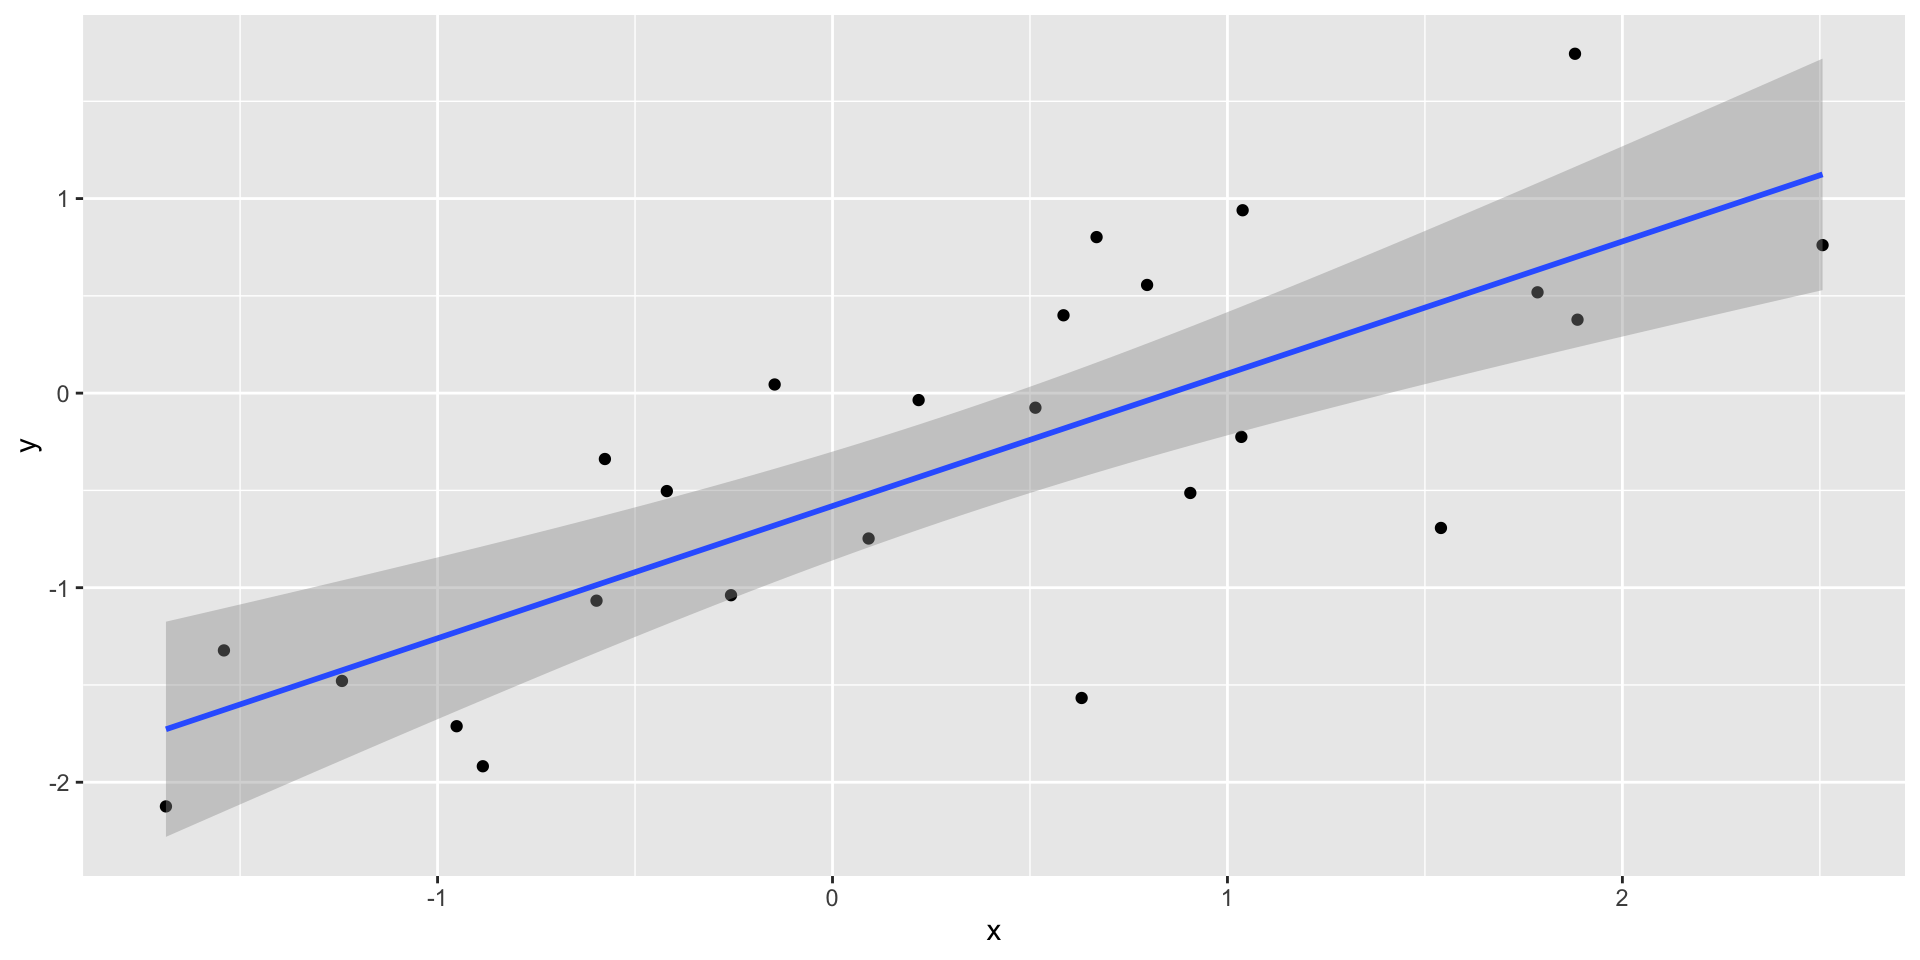
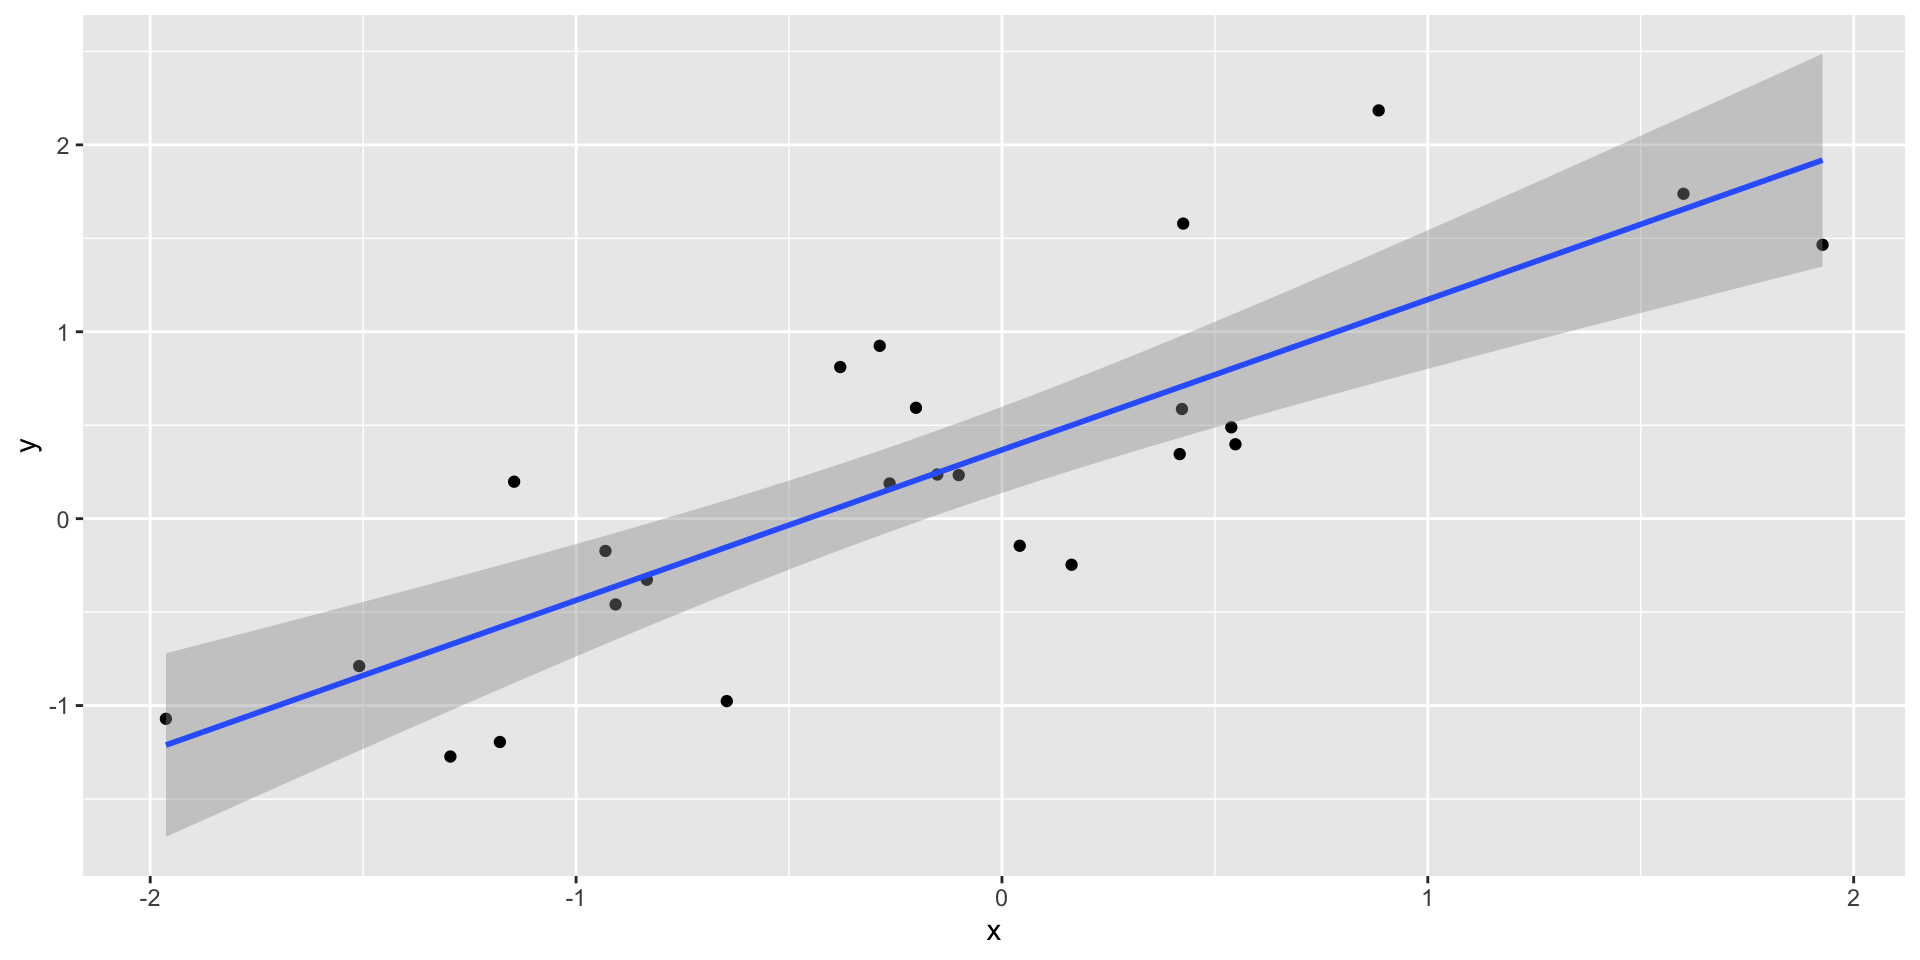
pset 10 and shiny lecture

diff --git a/docs/psets/pset-10-ml.html b/docs/psets/pset-10-ml.html
@@ -6,7 +6,7 @@
 
 <meta name="viewport" content="width=device-width, initial-scale=1.0, user-scalable=yes">
 
-<meta name="dcterms.date" content="2024-12-16">
+<meta name="dcterms.date" content="2025-04-20">
 
 <title>Problem set 10 – BIOSTAT 620: Introduction to Health Data Science</title>
 <style>
@@ -165,6 +165,12 @@ pre > code.sourceCode > span > a:first-child::before { text-decoration: underlin
  <span class="menu-text">Syllabus</span></a>
   </div>
 </li>
+        <li class="sidebar-item">
+  <div class="sidebar-item-container"> 
+  <a href="../final-project.html" class="sidebar-item-text sidebar-link">
+ <span class="menu-text">Final Project</span></a>
+  </div>
+</li>
     </ul>
     </div>
 </nav>
@@ -189,7 +195,7 @@ pre > code.sourceCode > span > a:first-child::before { text-decoration: underlin
     <div>
     <div class="quarto-title-meta-heading">Published</div>
     <div class="quarto-title-meta-contents">
-      <p class="date">December 16, 2024</p>
+      <p class="date">April 20, 2025</p>
     </div>
   </div>
   
@@ -201,11 +207,11 @@ pre > code.sourceCode > span > a:first-child::before { text-decoration: underlin
 </header>
 
 
-<p>The data for this problem set is provided by this link: <code>https://github.com/datasciencelabs/2024/raw/refs/heads/main/data/pset-10-mnist.rds</code></p>
+<p>The data for this problem set is provided by this link: <code>https://github.com/dmcable/BIOSTAT620/raw/refs/heads/main/data/pset-10-mnist.rds</code></p>
 <p>Read this object into R. For example, you can use:</p>
 <div class="cell">
 <div class="sourceCode cell-code" id="cb1"><pre class="sourceCode r code-with-copy"><code class="sourceCode r"><span id="cb1-1"><a href="#cb1-1" aria-hidden="true" tabindex="-1"></a>fn <span class="ot">&lt;-</span> <span class="fu">tempfile</span>()</span>
-<span id="cb1-2"><a href="#cb1-2" aria-hidden="true" tabindex="-1"></a><span class="fu">download.file</span>(<span class="st">"https://github.com/datasciencelabs/2024/raw/refs/heads/main/data/pset-10-mnist.rds"</span>, fn)</span>
+<span id="cb1-2"><a href="#cb1-2" aria-hidden="true" tabindex="-1"></a><span class="fu">download.file</span>(<span class="st">"https://github.com/dmcable/BIOSTAT620/raw/refs/heads/main/data/pset-10-mnist.rds"</span>, fn)</span>
 <span id="cb1-3"><a href="#cb1-3" aria-hidden="true" tabindex="-1"></a>dat <span class="ot">&lt;-</span> <span class="fu">readRDS</span>(fn)</span>
 <span id="cb1-4"><a href="#cb1-4" aria-hidden="true" tabindex="-1"></a><span class="fu">file.remove</span>(fn)</span></code><button title="Copy to Clipboard" class="code-copy-button"><i class="bi"></i></button></pre></div>
 </div>
@@ -220,8 +226,8 @@ pre > code.sourceCode > span > a:first-child::before { text-decoration: underlin
 <li><p>The file <code>digit_predictions.rds</code></p></li>
 <li><p>A quarto file that reproduces your analysis and provides brief explanations for your choices.</p></li>
 </ol>
-<p><strong>If your code reproduces the result</strong>, your grade will be your accuracy rounded up the closest integer. So,for example, if your accuracy is .993 your grade will be 100%.</p>
-<p>You will have two opportunities to submit your predictions and see your accuracy before your submitting your final predictions.</p>
+<p><strong>If your code reproduces the result</strong>, your grade will be your accuracy rounded up the closest integer. So, for example, if your accuracy is .993 your grade will be 100%. Depending on the distribution of accuracy values, the teaching staff may issue an update about the grading system used.</p>
+<p>You will have one opportunities to redo your predictions after you see your accuracy from your first submission.</p>
 
 
 

diff --git a/docs/index.html b/docs/index.html
@@ -299,10 +299,22 @@ ul.task-list li input[type="checkbox"] {
 <td style="text-align: left;"><a href="https://rafalab.dfci.harvard.edu/dsbook-part-2/ml/notation-and-terminology.html">Notation and terminology</a>, <a href="https://rafalab.dfci.harvard.edu/dsbook-part-2/ml/evaluation-metrics.html">Evaluation Metrics</a>, <a href="https://rafalab.dfci.harvard.edu/dsbook-part-2/ml/conditionals.html">conditional probabilities</a>, <a href="https://rafalab.dfci.harvard.edu/dsbook-part-2/ml/smoothing.html">smoothing</a></td>
 </tr>
 <tr class="odd">
-<td style="text-align: left;">Mar 25, Mar 27</td>
+<td style="text-align: left;">Mar 25, Mar 27, Apr 03, Apr 08</td>
 <td style="text-align: left;">Machine Learning</td>
 <td style="text-align: left;"><a href="./slides/ml/40-knn.html">kNN</a>, <a href="./slides/ml/41-resampling-methods.html">Resampling methods</a>, <a href="./slides/ml/42-caret.html">caret package</a>, <a href="./slides/ml/43-algorithms.html">Algorithms</a>, <a href="./slides/ml/44-ml-in-practice.html">ML in practice</a></td>
 <td style="text-align: left;"><a href="https://rafalab.dfci.harvard.edu/dsbook-part-2/ml/resampling-methods.html">Resampling methods</a>, <a href="https://rafalab.dfci.harvard.edu/dsbook-part-2/ml/algorithms.html">ML algorithms</a>, <a href="https://rafalab.dfci.harvard.edu/dsbook-part-2/ml/ml-in-practice.html">ML in practice</a></td>
+</tr>
+<tr class="even">
+<td style="text-align: left;">Apr 1</td>
+<td style="text-align: left;">Midterm 2</td>
+<td style="text-align: left;"></td>
+<td style="text-align: left;">Midterm 2: covers material from Jan 09-Mar 27</td>
+</tr>
+<tr class="odd">
+<td style="text-align: left;">Apr 10, Apr 15</td>
+<td style="text-align: left;">Other topics</td>
+<td style="text-align: left;"><a href="./slides/other-topics/45-association-not-causation.html">Association is not causation</a>, <a href="./slides/other-topics/46-shiny.html">Shiny</a>, <a href="https://github.com/dmcable/BIOSTAT620/tree/main/shiny">Shiny example code</a></td>
+<td style="text-align: left;"><a href="https://rafalab.dfci.harvard.edu/dsbook-part-2/linear-models/association-not-causation.html">Association is not causation</a></td>
 </tr>
 </tbody>
 </table>
@@ -371,20 +383,29 @@ ul.task-list li input[type="checkbox"] {
 <tr class="even">
 <td style="text-align: left;"><a href="./psets/pset-08-matrices.html">08</a></td>
 <td style="text-align: left;">Matrices</td>
-<td style="text-align: left;">March 25</td>
+<td style="text-align: left;">Mar 25</td>
 <td style="text-align: left;">easy</td>
 </tr>
 <tr class="odd">
 <td style="text-align: left;"><a href="./psets/pset-09-genomics.html">09</a></td>
 <td style="text-align: left;">Genomics (High dimensional data)</td>
-<td style="text-align: left;">April 13</td>
+<td style="text-align: left;">Apr 13</td>
 <td style="text-align: left;">medium</td>
+</tr>
+<tr class="even">
+<td style="text-align: left;"><a href="./psets/pset-10-ml.html">10</a></td>
+<td style="text-align: left;">Digit reading</td>
+<td style="text-align: left;">Apr 20</td>
+<td style="text-align: left;">hard</td>
+</tr>
+<tr class="odd">
+<td style="text-align: left;">Final Project</td>
+<td style="text-align: left;">Your choice</td>
+<td style="text-align: left;">Apr 24</td>
+<td style="text-align: left;">hard</td>
 </tr>
 </tbody>
 </table>
-<!--
-| [10](psets/pset-10-ml.qmd)          | Digit reading | Dec 16   | hard | 
-|Final Project| Your choice | Dec 20   | hard  |-->
 </section>
 <section id="office-hour-times" class="level2">
 <h2 class="anchored" data-anchor-id="office-hour-times">Office hour times</h2>

diff --git a/docs/slides/other-topics/45-association-not-causation.html b/docs/slides/other-topics/45-association-not-causation.html
@@ -9,9 +9,9 @@
 <link href="../../site_libs/quarto-html/quarto-syntax-highlighting-dark-8ea72dc5fed832574809a9c94082fbbb.css" rel="stylesheet" id="quarto-text-highlighting-styles"><meta charset="utf-8">
   <meta name="generator" content="quarto-1.6.40">
 
-  <meta name="dcterms.date" content="2024-12-16">
+  <meta name="dcterms.date" content="2025-04-10">
   <meta name="keywords" content="Other topics">
-  <title>BIOSTAT 620: Introduction to Health Data Science – Association Not Causation</title>
+  <title>BIOSTAT 620: Introduction to Health Data Science – Association is Not Causation</title>
   <meta name="apple-mobile-web-app-capable" content="yes">
   <meta name="apple-mobile-web-app-status-bar-style" content="black-translucent">
   <meta name="viewport" content="width=device-width, initial-scale=1.0, maximum-scale=1.0, user-scalable=no, minimal-ui">
@@ -193,12 +193,12 @@
     <div class="slides">
 
 <section id="title-slide" class="quarto-title-block center">
-  <h1 class="title">Association Not Causation</h1>
+  <h1 class="title">Association is Not Causation</h1>
 
 <div class="quarto-title-authors">
 </div>
 
-  <p class="date">2024-12-16</p>
+  <p class="date">2025-04-10</p>
 </section>
 <section id="association-is-not-causation" class="slide level2">
 <h2>Association is not causation</h2>
@@ -251,21 +251,21 @@
 <pre><code># A tibble: 1,000,000 × 2
     group     r
     &lt;int&gt; &lt;dbl&gt;
- 1 523267 0.772
- 2 928751 0.770
- 3  73944 0.765
- 4 577955 0.753
- 5 363166 0.753
- 6 478025 0.752
- 7 643506 0.737
- 8 328233 0.736
- 9 285151 0.734
-10 493287 0.729
+ 1 968295 0.815
+ 2 356799 0.812
+ 3 793303 0.768
+ 4 501658 0.759
+ 5 331407 0.757
+ 6 121859 0.757
+ 7 177550 0.754
+ 8 783376 0.753
+ 9  59409 0.752
+10 212391 0.751
 # ℹ 999,990 more rows</code></pre>
 </div>
 </div>
 <ul>
-<li>We see a maximum correlation of 0.772.</li>
+<li>We see a maximum correlation of 0.815.</li>
 </ul>
 </section>
 <section id="spurious-correlation-4" class="slide level2">
@@ -304,9 +304,9 @@
 <span id="cb5-5"><a></a>  <span class="fu">filter</span>(term <span class="sc">==</span> <span class="st">"x"</span>) </span></code><button title="Copy to Clipboard" class="code-copy-button"><i class="bi"></i></button></pre></div>
 <div class="cell-output cell-output-stdout">
 <pre><code># A tibble: 1 × 5
-  term  estimate std.error statistic    p.value
-  &lt;chr&gt;    &lt;dbl&gt;     &lt;dbl&gt;     &lt;dbl&gt;      &lt;dbl&gt;
-1 x        0.680     0.117      5.82 0.00000625</code></pre>
+  term  estimate std.error statistic     p.value
+  &lt;chr&gt;    &lt;dbl&gt;     &lt;dbl&gt;     &lt;dbl&gt;       &lt;dbl&gt;
+1 x        0.805     0.119      6.75 0.000000690</code></pre>
 </div>
 </div>
 </section>

diff --git a/docs/slides.html b/docs/slides.html
@@ -739,6 +739,28 @@ Date
 <span class="listing-date">Thu, Mar 27</span>
 </td>
 </tr>
+<tr data-index="45" data-listing-date-sort="1744257600000" data-listing-file-modified-sort="1744583907369" data-listing-date-modified-sort="NaN" data-listing-reading-time-sort="10" data-listing-word-count-sort="1807" data-listing-title-sort="Association is Not Causation" data-listing-filename-sort="45-association-not-causation.qmd">
+<td>
+<span class="listing-keywords">Other topics</span>
+</td>
+<td>
+<a href="./slides/other-topics/45-association-not-causation.html" class="title listing-title">Association is Not Causation</a>
+</td>
+<td>
+<span class="listing-date">Thu, Apr 10</span>
+</td>
+</tr>
+<tr data-index="46" data-listing-date-sort="1744689600000" data-listing-file-modified-sort="1744583591107" data-listing-date-modified-sort="NaN" data-listing-reading-time-sort="2" data-listing-word-count-sort="338" data-listing-title-sort="Introduction to Shiny" data-listing-filename-sort="46-shiny.qmd">
+<td>
+<span class="listing-keywords">Other topics</span>
+</td>
+<td>
+<a href="./slides/other-topics/46-shiny.html" class="title listing-title">Introduction to Shiny</a>
+</td>
+<td>
+<span class="listing-date">Tue, Apr 15</span>
+</td>
+</tr>
 </tbody>
 </table>
 <div class="listing-no-matching d-none">

diff --git a/docs/slides/other-topics/46-shiny.html b/docs/slides/other-topics/46-shiny.html
@@ -9,7 +9,7 @@
 <link href="../../site_libs/quarto-html/quarto-syntax-highlighting-dark-8ea72dc5fed832574809a9c94082fbbb.css" rel="stylesheet" id="quarto-text-highlighting-styles"><meta charset="utf-8">
   <meta name="generator" content="quarto-1.6.40">
 
-  <meta name="dcterms.date" content="2024-12-16">
+  <meta name="dcterms.date" content="2025-04-15">
   <meta name="keywords" content="Other topics">
   <title>BIOSTAT 620: Introduction to Health Data Science – Introduction to Shiny</title>
   <meta name="apple-mobile-web-app-capable" content="yes">
@@ -198,7 +198,7 @@
 <div class="quarto-title-authors">
 </div>
 
-  <p class="date">2024-12-16</p>
+  <p class="date">2025-04-15</p>
 </section>
 <section id="motivation" class="slide level2">
 <h2>Motivation</h2>

diff --git a/docs/psets.html b/docs/psets.html
@@ -312,6 +312,14 @@ Due date (at 11:59 PM)
 <span class="listing-date">Sun, Apr 13</span>
 </td>
 </tr>
+<tr data-index="9" data-listing-date-sort="1745121600000" data-listing-file-modified-sort="1744583313721" data-listing-date-modified-sort="NaN" data-listing-reading-time-sort="1" data-listing-word-count-sort="189" data-listing-title-sort="Problem set 10" data-listing-filename-sort="pset-10-ml.qmd">
+<td>
+<a href="./psets/pset-10-ml.html" class="title listing-title">Problem set 10</a>
+</td>
+<td>
+<span class="listing-date">Sun, Apr 20</span>
+</td>
+</tr>
 </tbody>
 </table>
 <div class="listing-no-matching d-none">

diff --git a/docs/syllabus.html b/docs/syllabus.html
@@ -364,8 +364,16 @@ ul.task-list li input[type="checkbox"] {
 <td>Midterm 2: cover material from Jan 09-Mar 27</td>
 </tr>
 <tr class="even">
+<td>Apr 13</td>
+<td>Pset 9 due</td>
+</tr>
+<tr class="odd">
 <td>Apr 17</td>
 <td>Final project presentations day 1</td>
+</tr>
+<tr class="even">
+<td>Apr 20</td>
+<td>Pset 10 due</td>
 </tr>
 <tr class="odd">
 <td>Apr 22</td>
